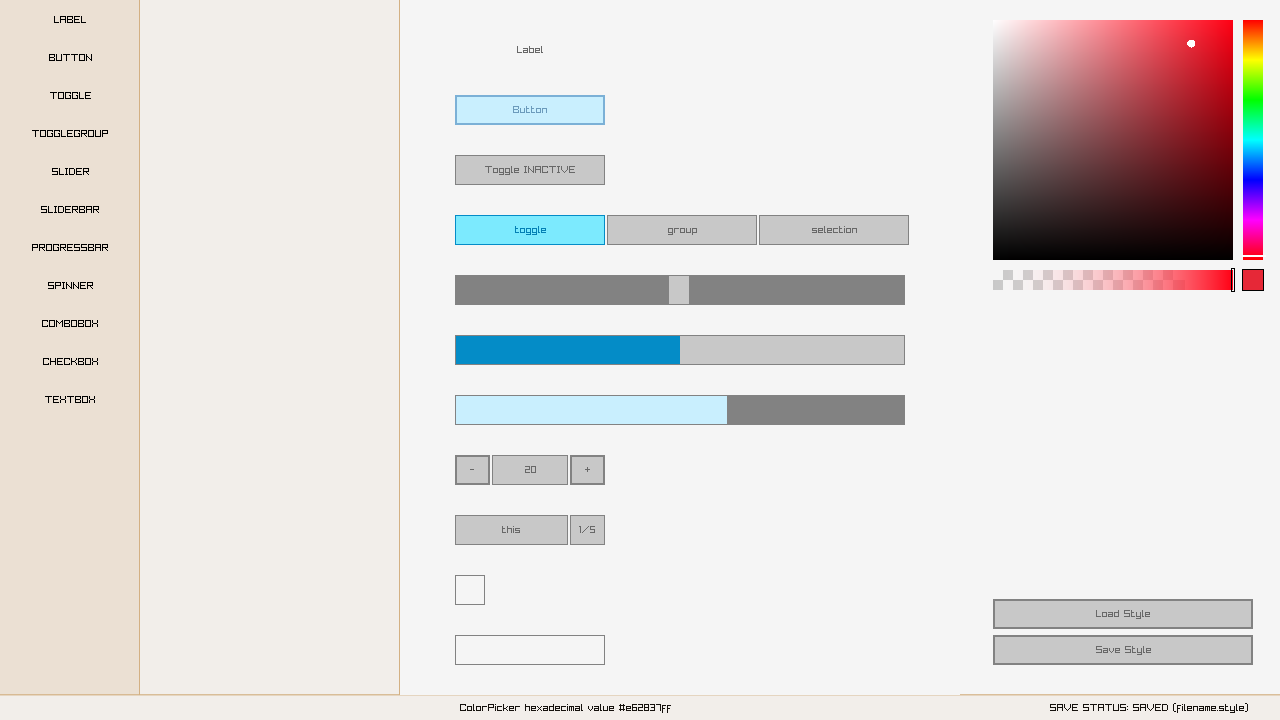
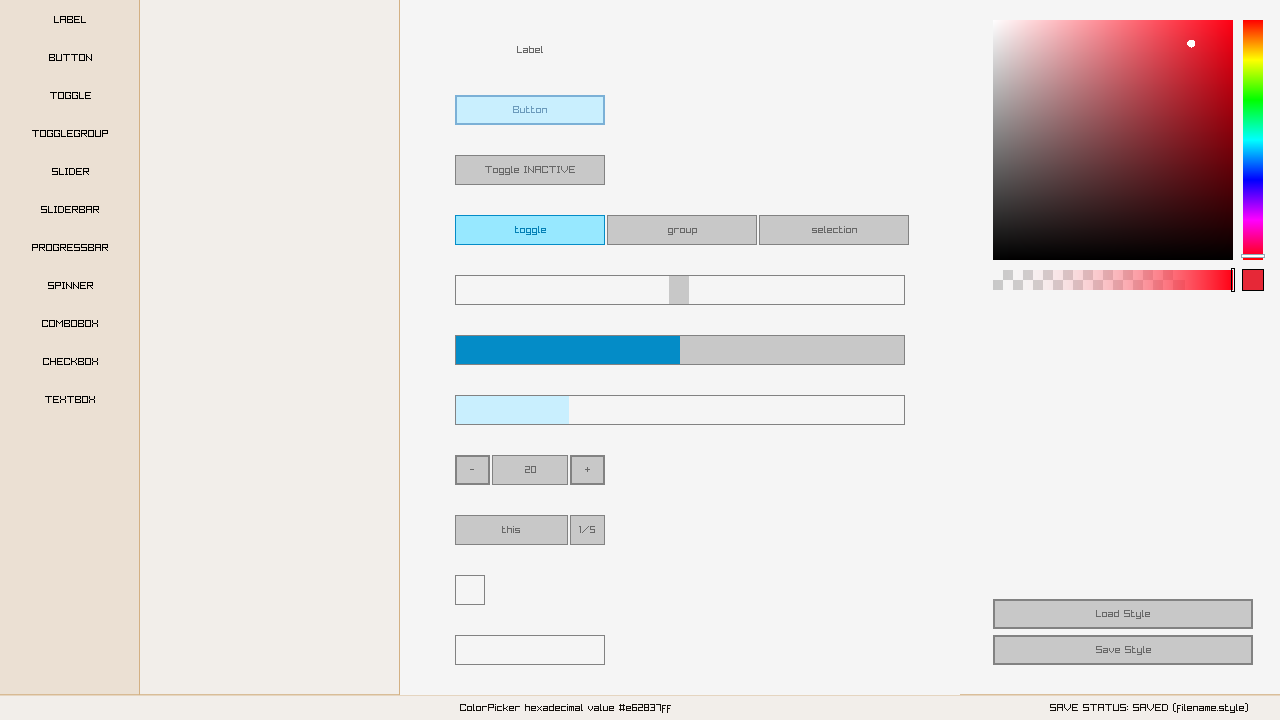
Updated default light style
Corrected some style bugs

Changed region(s): [[0.3438, 0.3667, 0.7188, 0.4278], [0.4375, 0.55, 0.7188, 0.6111], [0.3438, 0.275, 0.4688, 0.3361]]

diff --git a/src/raygui.h b/src/raygui.h
@@ -405,86 +405,86 @@ static int styleGeneric[20] = {
 static int style[NUM_PROPERTIES] = {
     0x686868ff,     // LABEL_TEXT_COLOR_NORMAL -----> DEFAULT_TEXT_COLOR_NORMAL
     0x6c9bbcff,     // LABEL_TEXT_COLOR_FOCUSED ----> DEFAULT_TEXT_COLOR_FOCUSED
-    0x0480b5ff,     // LABEL_TEXT_COLOR_PRESSED ----> DEFAULT_TEXT_COLOR_PRESSED
-    2,              // BUTTON_BORDER_WIDTH ----> DEFAULT_BORDER_WIDTH
-    0x000000ff,     // BUTTON_BORDER_COLOR_NORMAL ----> DEFAULT_BORDER_COLOR_NORMAL
-    0x000000ff,     // BUTTON_BASE_COLOR_NORMAL ----> DEFAULT_BASE_COLOR_NORMAL
-    0x000000ff,     // BUTTON_TEXT_COLOR_NORMAL ----> DEFAULT_TEXT_COLOR_NORMAL
-    0x000000ff,     // BUTTON_BORDER_COLOR_FOCUSED ----> DEFAULT_BORDER_COLOR_FOCUSED
-    0x000000ff,     // BUTTON_BASE_COLOR_FOCUSED ----> DEFAULT_BASE_COLOR_FOCUSED
-    0x000000ff,     // BUTTON_TEXT_COLOR_FOCUSED ----> DEFAULT_TEXT_COLOR_FOCUSED
-    0x000000ff,     // BUTTON_BORDER_COLOR_PRESSED ----> DEFAULT_BORDER_COLOR_PRESSED
-    0x000000ff,     // BUTTON_BASE_COLOR_PRESSED ----> DEFAULT_BASE_COLOR_PRESSED
-    0x000000ff,     // BUTTON_TEXT_COLOR_PRESSED ----> DEFAULT_TEXT_COLOR_PRESSED
-    0x000000ff,     // TOGGLE_BORDER_WIDTH ----> DEFAULT_BORDER_WIDTH
-    0x000000ff,     // TOGGLE_BORDER_COLOR_NORMAL ----> DEFAULT_BORDER_COLOR_NORMAL
-    0x000000ff,     // TOGGLE_BASE_COLOR_NORMAL ----> DEFAULT_BASE_COLOR_NORMAL
-    0x000000ff,     // TOGGLE_TEXT_COLOR_NORMAL ----> DEFAULT_TEXT_COLOR_NORMAL
-    0x000000ff,     // TOGGLE_BORDER_COLOR_FOCUSED ----> DEFAULT_BORDER_COLOR_FOCUSED
-    0x000000ff,     // TOGGLE_BASE_COLOR_FOCUSED ----> DEFAULT_BASE_COLOR_FOCUSED
-    0x000000ff,     // TOGGLE_TEXT_COLOR_FOCUSED ----> DEFAULT_TEXT_COLOR_FOCUSED
-    0x000000ff,     // TOGGLE_BORDER_COLOR_PRESSED ----> DEFAULT_BORDER_COLOR_PRESSED
-    0x000000ff,     // TOGGLE_BASE_COLOR_PRESSED ----> DEFAULT_BASE_COLOR_PRESSED
-    0x000000ff,     // TOGGLE_TEXT_COLOR_PRESSED ----> DEFAULT_TEXT_COLOR_PRESSED
-    2,              // TOGGLEGROUP_PADDING
-    0x000000ff,     // SLIDER_BORDER_WIDTH ----> DEFAULT_BORDER_WIDTH
-    0x000000ff,     // SLIDER_BORDER_COLOR_NORMAL ----> DEFAULT_BORDER_COLOR_NORMAL
-    0x000000ff,     // SLIDER_BASE_COLOR_NORMAL ----> DEFAULT_BASE_COLOR_NORMAL
-    0x000000ff,     // SLIDER_BORDER_COLOR_FOCUSED ----> DEFAULT_BORDER_COLOR_FOCUSED
-    0x000000ff,     // SLIDER_BASE_COLOR_FOCUSED ----> DEFAULT_BASE_COLOR_FOCUSED
-    0x000000ff,     // SLIDER_BORDER_COLOR_PRESSED ----> DEFAULT_BORDER_COLOR_PRESSED
-    0x000000ff,     // SLIDER_BASE_COLOR_PRESSED ----> DEFAULT_BASE_COLOR_PRESSED
-    0x000000ff,     // SLIDERBAR_BORDER_WIDTH ----> DEFAULT_BORDER_WIDTH
-    0x000000ff,     // SLIDERBAR_BORDER_COLOR_NORMAL ----> DEFAULT_BORDER_COLOR_NORMAL
-    0x000000ff,     // SLIDERBAR_BASE_COLOR_NORMAL ----> DEFAULT_BASE_COLOR_NORMAL
-    0x000000ff,     // SLIDERBAR_BORDER_COLOR_FOCUSED ----> DEFAULT_BORDER_COLOR_FOCUSED
-    0x000000ff,     // SLIDERBAR_BASE_COLOR_FOCUSED ----> DEFAULT_BASE_COLOR_FOCUSED
-    0x000000ff,     // SLIDERBAR_BORDER_COLOR_PRESSED ----> DEFAULT_BORDER_COLOR_PRESSED
-    0x000000ff,     // SLIDERBAR_BASE_COLOR_PRESSED ----> DEFAULT_BASE_COLOR_PRESSED
-    0x000000ff,     // PROGRESSBAR_BORDER_WIDTH ----> DEFAULT_BORDER_WIDTH
-    0x000000ff,     // PROGRESSBAR_BORDER_COLOR_NORMAL ----> DEFAULT_BORDER_COLOR_NORMAL
-    0x000000ff,     // PROGRESSBAR_BASE_COLOR_NORMAL ----> DEFAULT_BASE_COLOR_FOCUSED
-    0x000000ff,     // PROGRESSBAR_BORDER_COLOR_FOCUSED ----> DEFAULT_BORDER_COLOR_FOCUSED
-    0x000000ff,     // PROGRESSBAR_BASE_COLOR_FOCUSED ----> DEFAULT_BASE_COLOR_PRESSED
-    2,              // SPINNER_BUTTON_PADDING
-    0x000000ff,     // SPINNER_BORDER_COLOR_NORMAL ----> DEFAULT_BORDER_COLOR_NORMAL
-    0x000000ff,     // SPINNER_BASE_COLOR_NORMAL ----> DEFAULT_BASE_COLOR_NORMAL
-    0x000000ff,     // SPINNER_TEXT_COLOR_NORMAL ----> DEFAULT_TEXT_COLOR_NORMAL
-    0x000000ff,     // SPINNER_BORDER_COLOR_FOCUSED ----> DEFAULT_BORDER_COLOR_FOCUSED
-    0x000000ff,     // SPINNER_BASE_COLOR_FOCUSED ----> DEFAULT_BASE_COLOR_FOCUSED
-    0x000000ff,     // SPINNER_TEXT_COLOR_FOCUSED ----> DEFAULT_TEXT_COLOR_FOCUSED
-    0x000000ff,     // SPINNER_BORDER_COLOR_PRESSED ----> DEFAULT_BORDER_COLOR_PRESSED
-    0x000000ff,     // SPINNER_BASE_COLOR_PRESSED ----> DEFAULT_BASE_COLOR_PRESSED
-    0x000000ff,     // SPINNER_TEXT_COLOR_PRESSED ----> DEFAULT_TEXT_COLOR_PRESSED
-    0x000000ff,     // COMBOBOX_BORDER_WIDTH ----> DEFAULT_BORDER_WIDTH
-    2,              // COMBOBOX_BUTTON_PADDING
-    0x000000ff,     // COMBOBOX_BORDER_COLOR_NORMAL ----> DEFAULT_BORDER_COLOR_NORMAL
-    0x000000ff,     // COMBOBOX_BASE_COLOR_NORMAL ----> DEFAULT_BASE_COLOR_NORMAL
-    0x000000ff,     // COMBOBOX_TEXT_COLOR_NORMAL ----> DEFAULT_TEXT_COLOR_NORMAL
-    0x000000ff,     // COMBOBOX_BORDER_COLOR_FOCUSED ----> DEFAULT_BORDER_COLOR_FOCUSED
-    0x000000ff,     // COMBOBOX_BASE_COLOR_FOCUSED ----> DEFAULT_BASE_COLOR_FOCUSED
-    0x000000ff,     // COMBOBOX_TEXT_COLOR_FOCUSED ----> DEFAULT_TEXT_COLOR_FOCUSED
-    0x000000ff,     // COMBOBOX_BORDER_COLOR_PRESSED ----> DEFAULT_BORDER_COLOR_PRESSED
-    0x000000ff,     // COMBOBOX_BASE_COLOR_PRESSED ----> DEFAULT_BASE_COLOR_PRESSED
-    0x000000ff,     // COMBOBOX_TEXT_COLOR_PRESSED ----> DEFAULT_TEXT_COLOR_PRESSED
-    0x000000ff,     // CHECKBOX_BORDER_WIDTH ----> DEFAULT_BORDER_WIDTH
-    1,              // CHECKBOX_INNER_PADDING
-    0x000000ff,     // CHECKBOX_BORDER_COLOR_NORMAL ----> DEFAULT_BORDER_COLOR_NORMAL
-    0x000000ff,     // CHECKBOX_BASE_COLOR_NORMAL ----> DEFAULT_BACKGROUND_COLOR
-    0x000000ff,     // CHECKBOX_BORDER_COLOR_FOCUSED ----> DEFAULT_BORDER_COLOR_FOCUSED
-    0x000000ff,     // CHECKBOX_BASE_COLOR_FOCUSED ----> DEFAULT_TEXT_COLOR_FOCUSED
-    0x000000ff,     // CHECKBOX_BORDER_COLOR_PRESSED ----> DEFAULT_BORDER_COLOR_PRESSED
-    0x000000ff,     // CHECKBOX_BASE_COLOR_PRESSED ----> DEFAULT_TEXT_COLOR_PRESSED
-    0x000000ff,     // TEXTBOX_BORDER_WIDTH ----> DEFAULT_BORDER_WIDTH
-    0x000000ff,     // TEXTBOX_BORDER_COLOR_NORMAL ----> DEFAULT_BORDER_COLOR_NORMAL
-    0x000000ff,     // TEXTBOX_BASE_COLOR_NORMAL ----> DEFAULT_BACKGROUND_COLOR
-    0x000000ff,     // TEXTBOX_TEXT_COLOR_NORMAL ----> DEFAULT_TEXT_COLOR_NORMAL
-    0x000000ff,     // TEXTBOX_BORDER_COLOR_FOCUSED ----> DEFAULT_BORDER_COLOR_FOCUSED
-    0x000000ff,     // TEXTBOX_BASE_COLOR_FOCUSED ----> DEFAULT_BASE_COLOR_FOCUSED
-    0x000000ff,     // TEXTBOX_TEXT_COLOR_FOCUSED ----> DEFAULT_TEXT_COLOR_FOCUSED
-    0x000000ff,     // TEXTBOX_BORDER_COLOR_PRESSED ----> DEFAULT_BORDER_COLOR_PRESSED
-    0x000000ff,     // TEXTBOX_BASE_COLOR_PRESSED ----> DEFAULT_BASE_COLOR_PRESSED
-    0x000000ff,     // TEXTBOX_TEXT_COLOR_PRESSED ----> DEFAULT_TEXT_COLOR_PRESSED
+    0x480b5ff,      // LABEL_TEXT_COLOR_PRESSED ----> DEFAULT_TEXT_COLOR_PRESSED
+    0x2,            // BUTTON_BORDER_WIDTH ----> DEFAULT_BORDER_WIDTH
+    0x828282ff,     // BUTTON_BORDER_COLOR_NORMAL ----> DEFAULT_BORDER_COLOR_NORMAL
+    0xc8c8c8ff,     // BUTTON_BASE_COLOR_NORMAL ----> DEFAULT_BASE_COLOR_NORMAL
+    0x686868ff,     // BUTTON_TEXT_COLOR_NORMAL ----> DEFAULT_TEXT_COLOR_NORMAL
+    0x7bb0d6ff,     // BUTTON_BORDER_COLOR_FOCUSED ----> DEFAULT_BORDER_COLOR_FOCUSED
+    0xc9effeff,     // BUTTON_BASE_COLOR_FOCUSED ----> DEFAULT_BASE_COLOR_FOCUSED
+    0x6c9bbcff,     // BUTTON_TEXT_COLOR_FOCUSED ----> DEFAULT_TEXT_COLOR_FOCUSED
+    0x48cc7ff,      // BUTTON_BORDER_COLOR_PRESSED ----> DEFAULT_BORDER_COLOR_PRESSED
+    0x97e8ffff,     // BUTTON_BASE_COLOR_PRESSED ----> DEFAULT_BASE_COLOR_PRESSED
+    0x480b5ff,      // BUTTON_TEXT_COLOR_PRESSED ----> DEFAULT_TEXT_COLOR_PRESSED
+    0x1,            // TOGGLE_BORDER_WIDTH ----> DEFAULT_BORDER_WIDTH
+    0x828282ff,     // TOGGLE_BORDER_COLOR_NORMAL ----> DEFAULT_BORDER_COLOR_NORMAL
+    0xc8c8c8ff,     // TOGGLE_BASE_COLOR_NORMAL ----> DEFAULT_BASE_COLOR_NORMAL
+    0x686868ff,     // TOGGLE_TEXT_COLOR_NORMAL ----> DEFAULT_TEXT_COLOR_NORMAL
+    0x7bb0d6ff,     // TOGGLE_BORDER_COLOR_FOCUSED ----> DEFAULT_BORDER_COLOR_FOCUSED
+    0xc9effeff,     // TOGGLE_BASE_COLOR_FOCUSED ----> DEFAULT_BASE_COLOR_FOCUSED
+    0x6c9bbcff,     // TOGGLE_TEXT_COLOR_FOCUSED ----> DEFAULT_TEXT_COLOR_FOCUSED
+    0x48cc7ff,      // TOGGLE_BORDER_COLOR_PRESSED ----> DEFAULT_BORDER_COLOR_PRESSED
+    0x97e8ffff,     // TOGGLE_BASE_COLOR_PRESSED ----> DEFAULT_BASE_COLOR_PRESSED
+    0x480b5ff,      // TOGGLE_TEXT_COLOR_PRESSED ----> DEFAULT_TEXT_COLOR_PRESSED
+    0x2,            // TOGGLEGROUP_PADDING
+    0x1,            // SLIDER_BORDER_WIDTH ----> DEFAULT_BORDER_WIDTH
+    0x828282ff,     // SLIDER_BORDER_COLOR_NORMAL ----> DEFAULT_BORDER_COLOR_NORMAL
+    0xc8c8c8ff,     // SLIDER_BASE_COLOR_NORMAL ----> DEFAULT_BASE_COLOR_NORMAL
+    0x7bb0d6ff,     // SLIDER_BORDER_COLOR_FOCUSED ----> DEFAULT_BORDER_COLOR_FOCUSED
+    0xc9effeff,     // SLIDER_BASE_COLOR_FOCUSED ----> DEFAULT_BASE_COLOR_FOCUSED
+    0x48cc7ff,      // SLIDER_BORDER_COLOR_PRESSED ----> DEFAULT_BORDER_COLOR_PRESSED
+    0x97e8ffff,     // SLIDER_BASE_COLOR_PRESSED ----> DEFAULT_BASE_COLOR_PRESSED
+    0x1,            // SLIDERBAR_BORDER_WIDTH ----> DEFAULT_BORDER_WIDTH
+    0x828282ff,     // SLIDERBAR_BORDER_COLOR_NORMAL ----> DEFAULT_BORDER_COLOR_NORMAL
+    0xc8c8c8ff,     // SLIDERBAR_BASE_COLOR_NORMAL ----> DEFAULT_BASE_COLOR_NORMAL
+    0x7bb0d6ff,     // SLIDERBAR_BORDER_COLOR_FOCUSED ----> DEFAULT_BORDER_COLOR_FOCUSED
+    0xc9effeff,     // SLIDERBAR_BASE_COLOR_FOCUSED ----> DEFAULT_BASE_COLOR_FOCUSED
+    0x48cc7ff,      // SLIDERBAR_BORDER_COLOR_PRESSED ----> DEFAULT_BORDER_COLOR_PRESSED
+    0x97e8ffff,     // SLIDERBAR_BASE_COLOR_PRESSED ----> DEFAULT_BASE_COLOR_PRESSED
+    0x1,            // PROGRESSBAR_BORDER_WIDTH ----> DEFAULT_BORDER_WIDTH
+    0x828282ff,     // PROGRESSBAR_BORDER_COLOR_NORMAL ----> DEFAULT_BORDER_COLOR_NORMAL
+    0xc9effeff,     // PROGRESSBAR_BASE_COLOR_NORMAL ----> DEFAULT_BASE_COLOR_FOCUSED
+    0x7bb0d6ff,     // PROGRESSBAR_BORDER_COLOR_FOCUSED ----> DEFAULT_BORDER_COLOR_FOCUSED
+    0x97e8ffff,     // PROGRESSBAR_BASE_COLOR_FOCUSED ----> DEFAULT_BASE_COLOR_PRESSED
+    0x2,            // SPINNER_BUTTON_PADDING
+    0x828282ff,     // SPINNER_BORDER_COLOR_NORMAL ----> DEFAULT_BORDER_COLOR_NORMAL
+    0xc8c8c8ff,     // SPINNER_BASE_COLOR_NORMAL ----> DEFAULT_BASE_COLOR_NORMAL
+    0x686868ff,     // SPINNER_TEXT_COLOR_NORMAL ----> DEFAULT_TEXT_COLOR_NORMAL
+    0x7bb0d6ff,     // SPINNER_BORDER_COLOR_FOCUSED ----> DEFAULT_BORDER_COLOR_FOCUSED
+    0xc9effeff,     // SPINNER_BASE_COLOR_FOCUSED ----> DEFAULT_BASE_COLOR_FOCUSED
+    0x6c9bbcff,     // SPINNER_TEXT_COLOR_FOCUSED ----> DEFAULT_TEXT_COLOR_FOCUSED
+    0x48cc7ff,      // SPINNER_BORDER_COLOR_PRESSED ----> DEFAULT_BORDER_COLOR_PRESSED
+    0x97e8ffff,     // SPINNER_BASE_COLOR_PRESSED ----> DEFAULT_BASE_COLOR_PRESSED
+    0x480b5ff,      // SPINNER_TEXT_COLOR_PRESSED ----> DEFAULT_TEXT_COLOR_PRESSED
+    0x1,            // COMBOBOX_BORDER_WIDTH ----> DEFAULT_BORDER_WIDTH
+    0x2,            // COMBOBOX_BUTTON_PADDING
+    0x828282ff,     // COMBOBOX_BORDER_COLOR_NORMAL ----> DEFAULT_BORDER_COLOR_NORMAL
+    0xc8c8c8ff,     // COMBOBOX_BASE_COLOR_NORMAL ----> DEFAULT_BASE_COLOR_NORMAL
+    0x686868ff,     // COMBOBOX_TEXT_COLOR_NORMAL ----> DEFAULT_TEXT_COLOR_NORMAL
+    0x7bb0d6ff,     // COMBOBOX_BORDER_COLOR_FOCUSED ----> DEFAULT_BORDER_COLOR_FOCUSED
+    0xc9effeff,     // COMBOBOX_BASE_COLOR_FOCUSED ----> DEFAULT_BASE_COLOR_FOCUSED
+    0x6c9bbcff,     // COMBOBOX_TEXT_COLOR_FOCUSED ----> DEFAULT_TEXT_COLOR_FOCUSED
+    0x48cc7ff,      // COMBOBOX_BORDER_COLOR_PRESSED ----> DEFAULT_BORDER_COLOR_PRESSED
+    0x97e8ffff,     // COMBOBOX_BASE_COLOR_PRESSED ----> DEFAULT_BASE_COLOR_PRESSED
+    0x480b5ff,      // COMBOBOX_TEXT_COLOR_PRESSED ----> DEFAULT_TEXT_COLOR_PRESSED
+    0x1,            // CHECKBOX_BORDER_WIDTH ----> DEFAULT_BORDER_WIDTH
+    0x1,            // CHECKBOX_INNER_PADDING
+    0x828282ff,     // CHECKBOX_BORDER_COLOR_NORMAL ----> DEFAULT_BORDER_COLOR_NORMAL
+    0xf5f5f5ff,     // CHECKBOX_BASE_COLOR_NORMAL ----> DEFAULT_BACKGROUND_COLOR
+    0x7bb0d6ff,     // CHECKBOX_BORDER_COLOR_FOCUSED ----> DEFAULT_BORDER_COLOR_FOCUSED
+    0x6c9bbcff,     // CHECKBOX_BASE_COLOR_FOCUSED ----> DEFAULT_TEXT_COLOR_FOCUSED
+    0x48cc7ff,      // CHECKBOX_BORDER_COLOR_PRESSED ----> DEFAULT_BORDER_COLOR_PRESSED
+    0x480b5ff,      // CHECKBOX_BASE_COLOR_PRESSED ----> DEFAULT_TEXT_COLOR_PRESSED
+    0x1,            // TEXTBOX_BORDER_WIDTH ----> DEFAULT_BORDER_WIDTH
+    0x828282ff,     // TEXTBOX_BORDER_COLOR_NORMAL ----> DEFAULT_BORDER_COLOR_NORMAL
+    0xf5f5f5ff,     // TEXTBOX_BASE_COLOR_NORMAL ----> DEFAULT_BACKGROUND_COLOR
+    0x686868ff,     // TEXTBOX_TEXT_COLOR_NORMAL ----> DEFAULT_TEXT_COLOR_NORMAL
+    0x7bb0d6ff,     // TEXTBOX_BORDER_COLOR_FOCUSED ----> DEFAULT_BORDER_COLOR_FOCUSED
+    0xc9effeff,     // TEXTBOX_BASE_COLOR_FOCUSED ----> DEFAULT_BASE_COLOR_FOCUSED
+    0x6c9bbcff,     // TEXTBOX_TEXT_COLOR_FOCUSED ----> DEFAULT_TEXT_COLOR_FOCUSED
+    0x48cc7ff,      // TEXTBOX_BORDER_COLOR_PRESSED ----> DEFAULT_BORDER_COLOR_PRESSED
+    0x97e8ffff,     // TEXTBOX_BASE_COLOR_PRESSED ----> DEFAULT_BASE_COLOR_PRESSED
+    0x480b5ff,      // TEXTBOX_TEXT_COLOR_PRESSED ----> DEFAULT_TEXT_COLOR_PRESSED
 };
 
 //----------------------------------------------------------------------------------
@@ -882,19 +882,19 @@ RAYGUIDEF float GuiSlider(Rectangle bounds, float value, float minValue, float m
         case NORMAL: 
         {
             DrawRectangleRecT(bounds, GetColor(style[SLIDER_BORDER_COLOR_NORMAL]));
-            DrawRectangleT(bounds.x + style[SLIDER_BORDER_WIDTH], bounds.y + style[SLIDER_BORDER_WIDTH], bounds.width - 2*style[SLIDER_BORDER_WIDTH], bounds.height - 2*style[SLIDER_BORDER_WIDTH], GetColor(DEFAULT_BACKGROUND_COLOR));
+            DrawRectangleT(bounds.x + style[SLIDER_BORDER_WIDTH], bounds.y + style[SLIDER_BORDER_WIDTH], bounds.width - 2*style[SLIDER_BORDER_WIDTH], bounds.height - 2*style[SLIDER_BORDER_WIDTH], GetColor(styleGeneric[DEFAULT_BACKGROUND_COLOR]));
             DrawRectangleRecT(slider, GetColor(style[SLIDER_BASE_COLOR_NORMAL]));
         } break;
         case FOCUSED:
         {
             DrawRectangleRecT(bounds, GetColor(style[SLIDER_BORDER_COLOR_FOCUSED]));
-            DrawRectangleT(bounds.x + style[SLIDER_BORDER_WIDTH], bounds.y + style[SLIDER_BORDER_WIDTH], bounds.width - 2*style[SLIDER_BORDER_WIDTH], bounds.height - 2*style[SLIDER_BORDER_WIDTH], GetColor(DEFAULT_BACKGROUND_COLOR));
+            DrawRectangleT(bounds.x + style[SLIDER_BORDER_WIDTH], bounds.y + style[SLIDER_BORDER_WIDTH], bounds.width - 2*style[SLIDER_BORDER_WIDTH], bounds.height - 2*style[SLIDER_BORDER_WIDTH], GetColor(styleGeneric[DEFAULT_BACKGROUND_COLOR]));
             DrawRectangleRecT(slider, GetColor(style[SLIDER_BASE_COLOR_FOCUSED]));
         } break;
         case PRESSED:
         {
             DrawRectangleRecT(bounds, GetColor(style[SLIDER_BORDER_COLOR_PRESSED]));
-            DrawRectangleT(bounds.x + style[SLIDER_BORDER_WIDTH], bounds.y + style[SLIDER_BORDER_WIDTH], bounds.width - 2*style[SLIDER_BORDER_WIDTH], bounds.height - 2*style[SLIDER_BORDER_WIDTH], GetColor(DEFAULT_BACKGROUND_COLOR));
+            DrawRectangleT(bounds.x + style[SLIDER_BORDER_WIDTH], bounds.y + style[SLIDER_BORDER_WIDTH], bounds.width - 2*style[SLIDER_BORDER_WIDTH], bounds.height - 2*style[SLIDER_BORDER_WIDTH], GetColor(styleGeneric[DEFAULT_BACKGROUND_COLOR]));
             DrawRectangleRecT(slider, GetColor(style[SLIDER_BASE_COLOR_PRESSED]));
         } break;
         default: break;
@@ -995,13 +995,13 @@ RAYGUIDEF float GuiProgressBar(Rectangle bounds, float value, float minValue, fl
         case NORMAL:
         {
             DrawRectangleRecT(bounds, GetColor(style[PROGRESSBAR_BORDER_COLOR_NORMAL]));
-            DrawRectangleT(bounds.x + style[PROGRESSBAR_BORDER_WIDTH], bounds.y + style[PROGRESSBAR_BORDER_WIDTH], bounds.width - 2*style[PROGRESSBAR_BORDER_WIDTH], bounds.height - 2*style[PROGRESSBAR_BORDER_WIDTH], GetColor(DEFAULT_BACKGROUND_COLOR));
+            DrawRectangleT(bounds.x + style[PROGRESSBAR_BORDER_WIDTH], bounds.y + style[PROGRESSBAR_BORDER_WIDTH], bounds.width - 2*style[PROGRESSBAR_BORDER_WIDTH], bounds.height - 2*style[PROGRESSBAR_BORDER_WIDTH], GetColor(styleGeneric[DEFAULT_BACKGROUND_COLOR]));
             DrawRectangleRecT(progress, GetColor(style[PROGRESSBAR_BASE_COLOR_NORMAL])); 
         } break;
         case FOCUSED:
         {
             DrawRectangleRecT(bounds, GetColor(style[SLIDERBAR_BORDER_COLOR_FOCUSED]));
-            DrawRectangleT(bounds.x + style[SLIDERBAR_BORDER_WIDTH], bounds.y + style[SLIDERBAR_BORDER_WIDTH], bounds.width - 2*style[SLIDERBAR_BORDER_WIDTH], bounds.height - 2*style[SLIDERBAR_BORDER_WIDTH], GetColor(DEFAULT_BACKGROUND_COLOR));
+            DrawRectangleT(bounds.x + style[SLIDERBAR_BORDER_WIDTH], bounds.y + style[SLIDERBAR_BORDER_WIDTH], bounds.width - 2*style[SLIDERBAR_BORDER_WIDTH], bounds.height - 2*style[SLIDERBAR_BORDER_WIDTH], GetColor(styleGeneric[DEFAULT_BACKGROUND_COLOR]));
             DrawRectangleRecT(progress, GetColor(style[PROGRESSBAR_BASE_COLOR_FOCUSED]));
         } break;
         case PRESSED: break;
@@ -1603,13 +1603,13 @@ RAYGUIDEF void UpdateStyleComplete(void)
 // Save current GUI style into a text file
 RAYGUIDEF void SaveGuiStyle(const char *fileName)
 {
-    /*
     FILE *styleFile = fopen(fileName, "wt");
 
-    for (int i = 0; i < NUM_PROPERTIES; i++) fprintf(styleFile, "%-40s0x%x\n", guiPropertyName[i], GetStyleProperty(i));
+    //for (int i = 0; i < NUM_PROPERTIES; i++) fprintf(styleFile, "%-40s0x%x\n", guiPropertyName[i], GetStyleProperty(i));
 
+    for (int i = 0; i < NUM_PROPERTIES; i++) fprintf(styleFile, "0x%x\n", GetStyleProperty(i));
+    
     fclose(styleFile);
-    */
 }
 
 // Load GUI style from a text file

diff --git a/tools/rGuiStyler/rguistyler.c b/tools/rGuiStyler/rguistyler.c
@@ -240,7 +240,7 @@ int main()
     currentPath[strlen(currentPath)] = '\\';
     currentPath[strlen(currentPath) + 1] = '\0';      // Not really required
     
-    LoadGuiStyleImage("rguistyle_default_dark.png");
+    //LoadGuiStyleImage("rguistyle_default_dark.png");
 
     SetTargetFPS(60);
     //--------------------------------------------------------------------------------------
